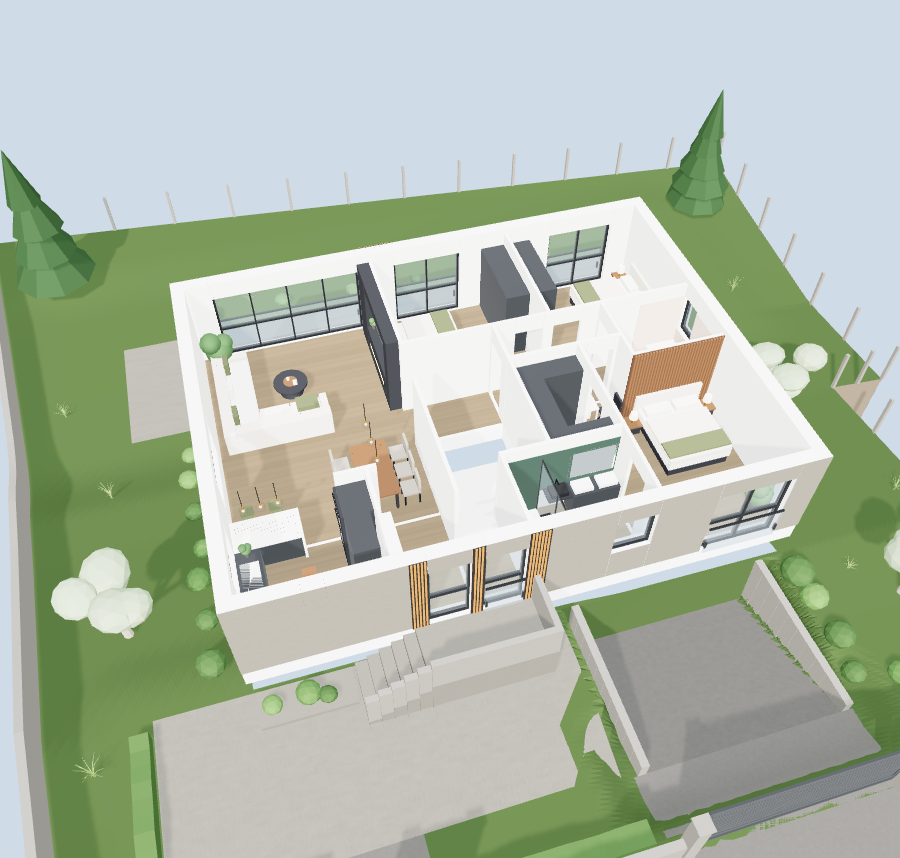
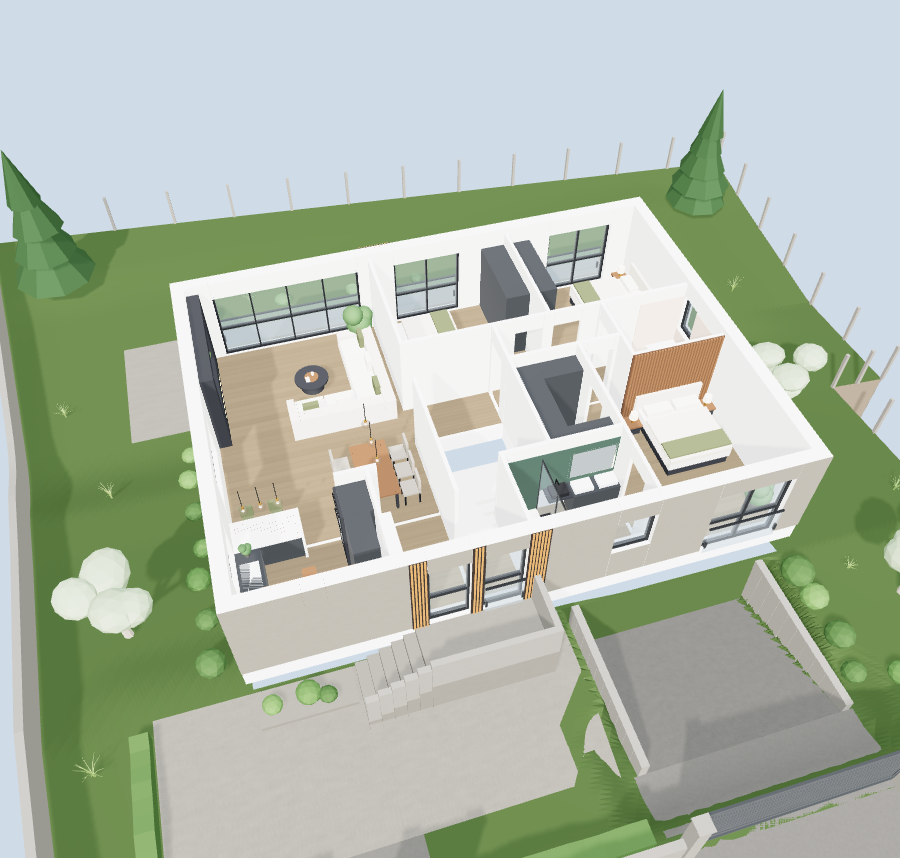
Swap the sofa and the media wall over
The media wall was on the g-p1 partition with the sofa against the left flank;
they are the other way round now. The sofa backs onto the partition and the
joinery runs down the flank wall, so you read the room from the kitchen end with
the rear glazing on your right.

The sofa, the coffee table, the rug and the plant are mirrored about the room's
centre line at x 2.9015, which keeps every clearance they were laid out with —
1.02 m from the seat to the table, 2.5 m across to the joinery face. The
joinery is rebuilt rather than mirrored, because its depths are all measured out
from the wall face and that face has changed sides. It clears the flank wall's
only window, which starts at y 4.751. The dining end stays where it is: it was
set east to keep the way through to the kitchen open, and that has not changed.

While in there: the throw was floating 100 mm above the seat with its front edge
out in mid-air. It sits on the cushion now and hangs over the front.

Claude-Session: https://claude.ai/code/session_019xVJAk73kmvxS8tgZyQUWS

Changed region(s): [[0.1867, 0.303, 0.4667, 0.5455], [0.6533, 0.4545, 0.7156, 0.4848]]

diff --git a/src/scene/furniture.ts b/src/scene/furniture.ts
@@ -389,9 +389,12 @@ function buildKitchen(p: Place) {
 // ─────────────────────────────────────────────────────────────────────────────
 
 function buildLiving(p: Place) {
-  const back = SALA[2] // face of the g-p1 partition, x = 5.453
-  const face = back - 0.35
-  // The joinery stops short of both ends of the partition, which only runs y 0.35 → 3.95.
+  // The media wall is on the left flank and the sofa backs onto the g-p1 partition opposite:
+  // you come in from the kitchen end with the rear glazing on your right.
+  const back = SALA[0] // face of the left flank wall, x = 0.35
+  const face = back + 0.35
+  // The joinery stops short of both ends of its run. The flank wall's only window starts at
+  // y 4.751, so nothing here fouls it.
   const j0 = 0.5
   const j1 = 3.85
   // Recess opening, and the fireplace slot inside the band below it.
@@ -400,50 +403,52 @@ function buildLiving(p: Place) {
   const f0 = 1.55
   const f1 = 3.25
 
-  p.box(CHARCOAL, face, j0, back, r0, 0, CLEAR)
-  p.box(CHARCOAL, face, r1, back, j1, 0, CLEAR)
-  p.box(CHARCOAL, face, r0, back, r1, 2.3, CLEAR)
-  p.box(CHARCOAL, face, r0, back, f0, 0, 0.95)
-  p.box(CHARCOAL, face, f1, back, r1, 0, 0.95)
-  p.box(CHARCOAL, face, f0, back, f1, 0, 0.38)
-  p.box(CHARCOAL, face, f0, back, f1, 0.64, 0.95)
+  p.box(CHARCOAL, back, j0, face, r0, 0, CLEAR)
+  p.box(CHARCOAL, back, r1, face, j1, 0, CLEAR)
+  p.box(CHARCOAL, back, r0, face, r1, 2.3, CLEAR)
+  p.box(CHARCOAL, back, r0, face, f0, 0, 0.95)
+  p.box(CHARCOAL, back, f1, face, r1, 0, 0.95)
+  p.box(CHARCOAL, back, f0, face, f1, 0, 0.38)
+  p.box(CHARCOAL, back, f0, face, f1, 0.64, 0.95)
 
   // Walnut lining to the recess, slatted, with a warm wash down it from the head.
-  p.box(WALNUT_DARK, back - 0.05, r0, back, r1, 0.95, 2.3)
+  p.box(WALNUT_DARK, back, r0, back + 0.05, r1, 0.95, 2.3)
   p.many(
     box(0.03, 1.35, 0.055),
     WALNUT,
-    spread(r0 + 0.04, r1 - 0.04, 0.078).map((y) => [back - 0.075, y, 1.625]),
+    spread(r0 + 0.04, r1 - 0.04, 0.078).map((y) => [back + 0.075, y, 1.625]),
   )
-  p.glow(WARM, face + 0.03, r0 + 0.05, face + 0.2, r1 - 0.05, 2.27, 2.3)
+  p.glow(WARM, face - 0.2, r0 + 0.05, face - 0.03, r1 - 0.05, 2.27, 2.3)
 
   // Wall-hung TV on the walnut, and the long linear fire under it.
-  p.box(INK, back - 0.13, f0 - 0.02, back - 0.1, f1 + 0.02, 1.23, 2.22)
-  p.box(SCREEN, back - 0.16, f0, back - 0.13, f1, 1.25, 2.2)
-  p.box(INK, face, f0, face + 0.2, f1, 0.36, 0.66)
-  p.box(INK, face - 0.01, f0 + 0.05, face + 0.02, f1 - 0.05, 0.39, 0.42)
-  p.glow(FLAME, face - 0.012, f0 + 0.05, face + 0.018, f1 - 0.05, 0.42, 0.56)
+  p.box(INK, back + 0.1, f0 - 0.02, back + 0.13, f1 + 0.02, 1.23, 2.22)
+  p.box(SCREEN, back + 0.13, f0, back + 0.16, f1, 1.25, 2.2)
+  p.box(INK, face - 0.2, f0, face, f1, 0.36, 0.66)
+  p.box(INK, face - 0.02, f0 + 0.05, face + 0.01, f1 - 0.05, 0.39, 0.42)
+  p.glow(FLAME, face - 0.018, f0 + 0.05, face + 0.012, f1 - 0.05, 0.42, 0.56)
 
-  // A vase on the shoulder of the joinery, left of the fire.
-  plant(p, face + 0.17, r0 + 0.12, 0.42, 0.95)
+  // A vase on the shoulder of the joinery, beside the fire.
+  plant(p, face - 0.17, r0 + 0.12, 0.42, 0.95)
 
-  // ── L-shaped sofa, facing the media wall, wrapping round towards the kitchen ──
-  p.box(CREAM, 0.58, 1.0, 1.58, 4.2, 0.05, 0.4)
-  p.box(CREAM, 1.58, 3.22, 3.45, 4.2, 0.05, 0.4)
-  p.box(CREAM, 0.58, 1.0, 0.9, 4.2, 0.4, 0.82) // back, long run
-  p.box(CREAM, 0.9, 3.88, 3.45, 4.2, 0.4, 0.82) // back, return
-  p.box(CREAM, 0.9, 1.0, 1.58, 1.22, 0.4, 0.66) // arm at the open end
-  p.box(CREAM, 3.25, 3.22, 3.45, 4.2, 0.4, 0.66) // arm at the far end of the return
+  // ── L-shaped sofa, backing onto the partition and facing the media wall ──
+  // Mirrored about the room's centre line at x 2.9015, so it keeps the clearances it was laid
+  // out with: 1.02 m from the seat to the coffee table, 2.5 m across to the joinery face.
+  p.box(CREAM, 4.223, 1.0, 5.223, 4.2, 0.05, 0.4)
+  p.box(CREAM, 2.353, 3.22, 4.223, 4.2, 0.05, 0.4)
+  p.box(CREAM, 4.903, 1.0, 5.223, 4.2, 0.4, 0.82) // back, long run
+  p.box(CREAM, 2.353, 3.88, 4.903, 4.2, 0.4, 0.82) // back, return
+  p.box(CREAM, 4.223, 1.0, 4.903, 1.22, 0.4, 0.66) // arm at the open end
+  p.box(CREAM, 2.353, 3.22, 2.553, 4.2, 0.4, 0.66) // arm at the far end of the return
   for (const [a, b] of [
     [1.24, 2.11],
     [2.13, 3.0],
     [3.02, 3.86],
   ]) {
-    p.box(LINEN, 0.9, a, 1.56, b, 0.4, 0.56)
+    p.box(LINEN, 4.243, a, 4.903, b, 0.4, 0.56)
   }
   for (const [a, b] of [
-    [1.6, 2.42],
-    [2.44, 3.24],
+    [3.383, 4.203],
+    [2.563, 3.363],
   ]) {
     p.box(LINEN, a, 3.24, b, 3.86, 0.4, 0.56)
   }
@@ -453,26 +458,26 @@ function buildLiving(p: Place) {
     [2.5, LINEN],
     [3.5, OLIVE],
   ] as Array<[number, THREE.Material]>) {
-    p.box(mat, 0.9, y - 0.21, 1.04, y + 0.21, 0.54, 0.96)
+    p.box(mat, 4.763, y - 0.21, 4.903, y + 0.21, 0.54, 0.96)
   }
   for (const [x, mat] of [
-    [1.95, LINEN],
-    [2.85, OLIVE],
+    [3.853, LINEN],
+    [2.953, OLIVE],
   ] as Array<[number, THREE.Material]>) {
     p.box(mat, x - 0.21, 3.74, x + 0.21, 3.88, 0.54, 0.96)
   }
-  p.box(OLIVE, 2.6, 3.1, 3.2, 3.7, 0.5, 0.58) // throw over the return
+  p.box(OLIVE, 2.603, 3.14, 3.203, 3.8, 0.33, 0.47) // throw, draped over the front of the return
 
   // Round coffee table with a tray on it, between the sofa and the fire.
-  p.at(new THREE.CylinderGeometry(0.48, 0.48, 0.05, 28), CHARCOAL, 2.6, 2.3, 0.375)
-  p.at(new THREE.CylinderGeometry(0.28, 0.34, 0.35, 20), CHARCOAL, 2.6, 2.3, 0.175)
-  p.at(new THREE.CylinderGeometry(0.2, 0.2, 0.025, 20), WALNUT, 2.6, 2.3, 0.413)
-  p.at(new THREE.CylinderGeometry(0.045, 0.045, 0.09, 12), PALE_STONE, 2.55, 2.24, 0.47)
-  noShadow(p.at(new THREE.CylinderGeometry(0.03, 0.03, 0.01, 10), WARM, 2.55, 2.24, 0.517))
-  p.box(LINEN, 2.66, 2.3, 2.78, 2.5, 0.425, 0.455)
+  p.at(new THREE.CylinderGeometry(0.48, 0.48, 0.05, 28), CHARCOAL, 3.203, 2.3, 0.375)
+  p.at(new THREE.CylinderGeometry(0.28, 0.34, 0.35, 20), CHARCOAL, 3.203, 2.3, 0.175)
+  p.at(new THREE.CylinderGeometry(0.2, 0.2, 0.025, 20), WALNUT, 3.203, 2.3, 0.413)
+  p.at(new THREE.CylinderGeometry(0.045, 0.045, 0.09, 12), PALE_STONE, 3.253, 2.24, 0.47)
+  noShadow(p.at(new THREE.CylinderGeometry(0.03, 0.03, 0.01, 10), WARM, 3.253, 2.24, 0.517))
+  p.box(LINEN, 3.023, 2.3, 3.143, 2.5, 0.425, 0.455)
 
-  p.box(WOOL, 1.35, 0.8, 4.9, 4.6, 0, 0.014)
-  plant(p, 0.85, 0.85, 1.5)
+  p.box(WOOL, 0.903, 0.8, 4.453, 4.6, 0, 0.014)
+  plant(p, 4.953, 0.85, 1.5)
 
   // ── Dining for six, set east so the way through to the kitchen stays clear ──
   p.box(WALNUT, 3.625, 5.4, 4.575, 7.2, 0.72, 0.76)
